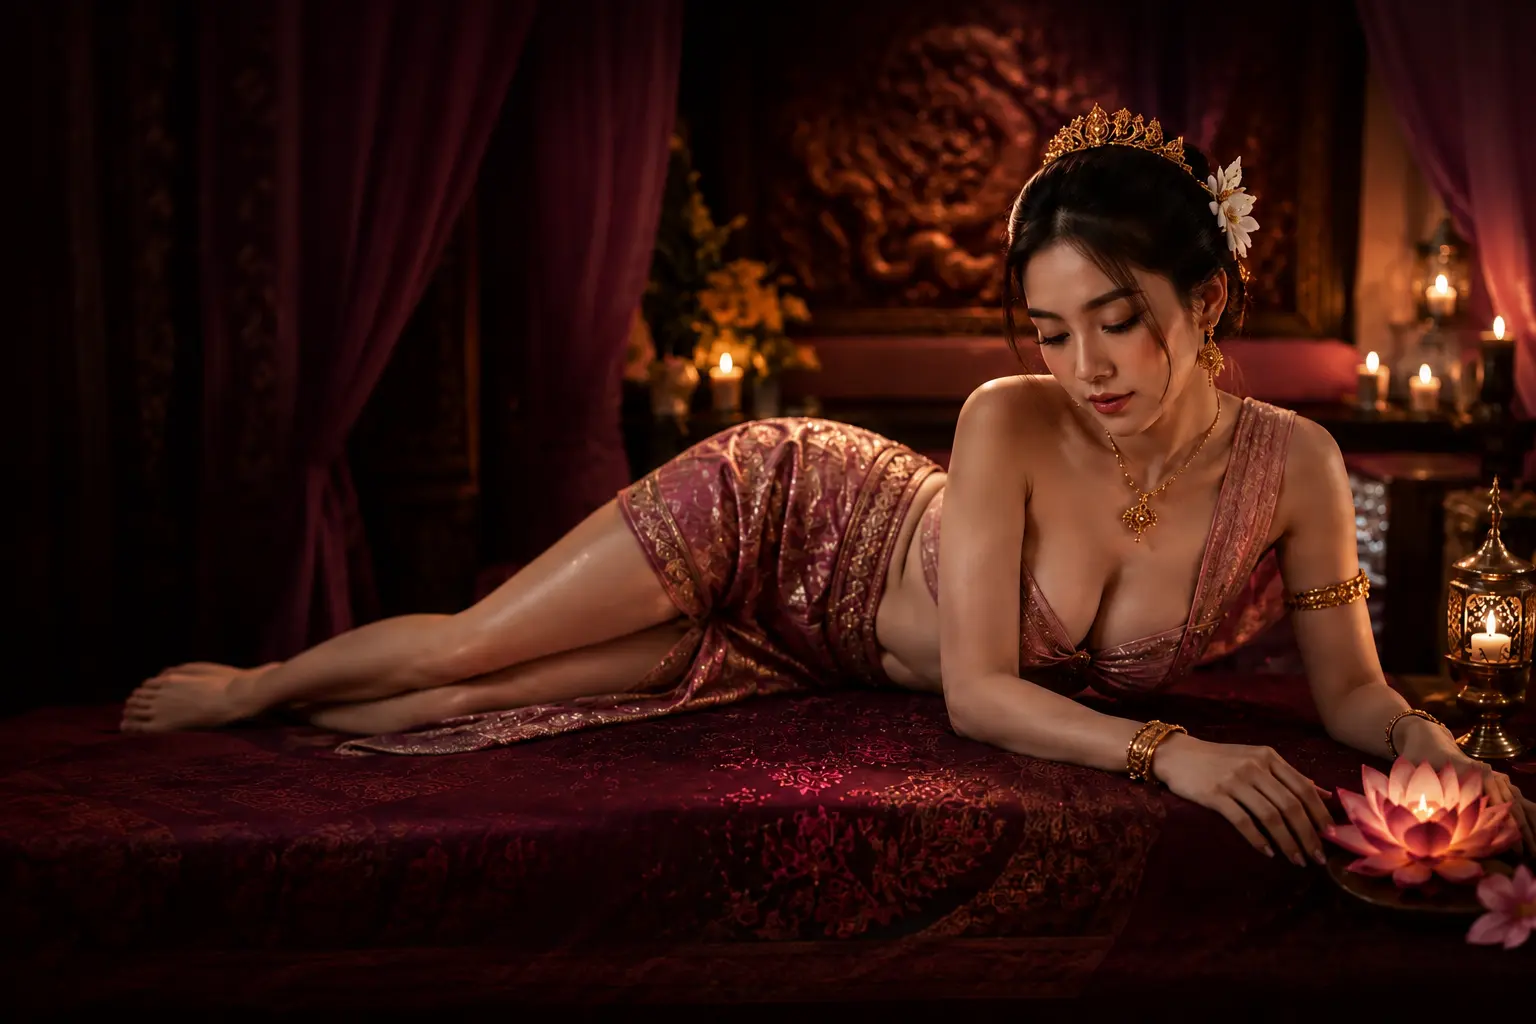
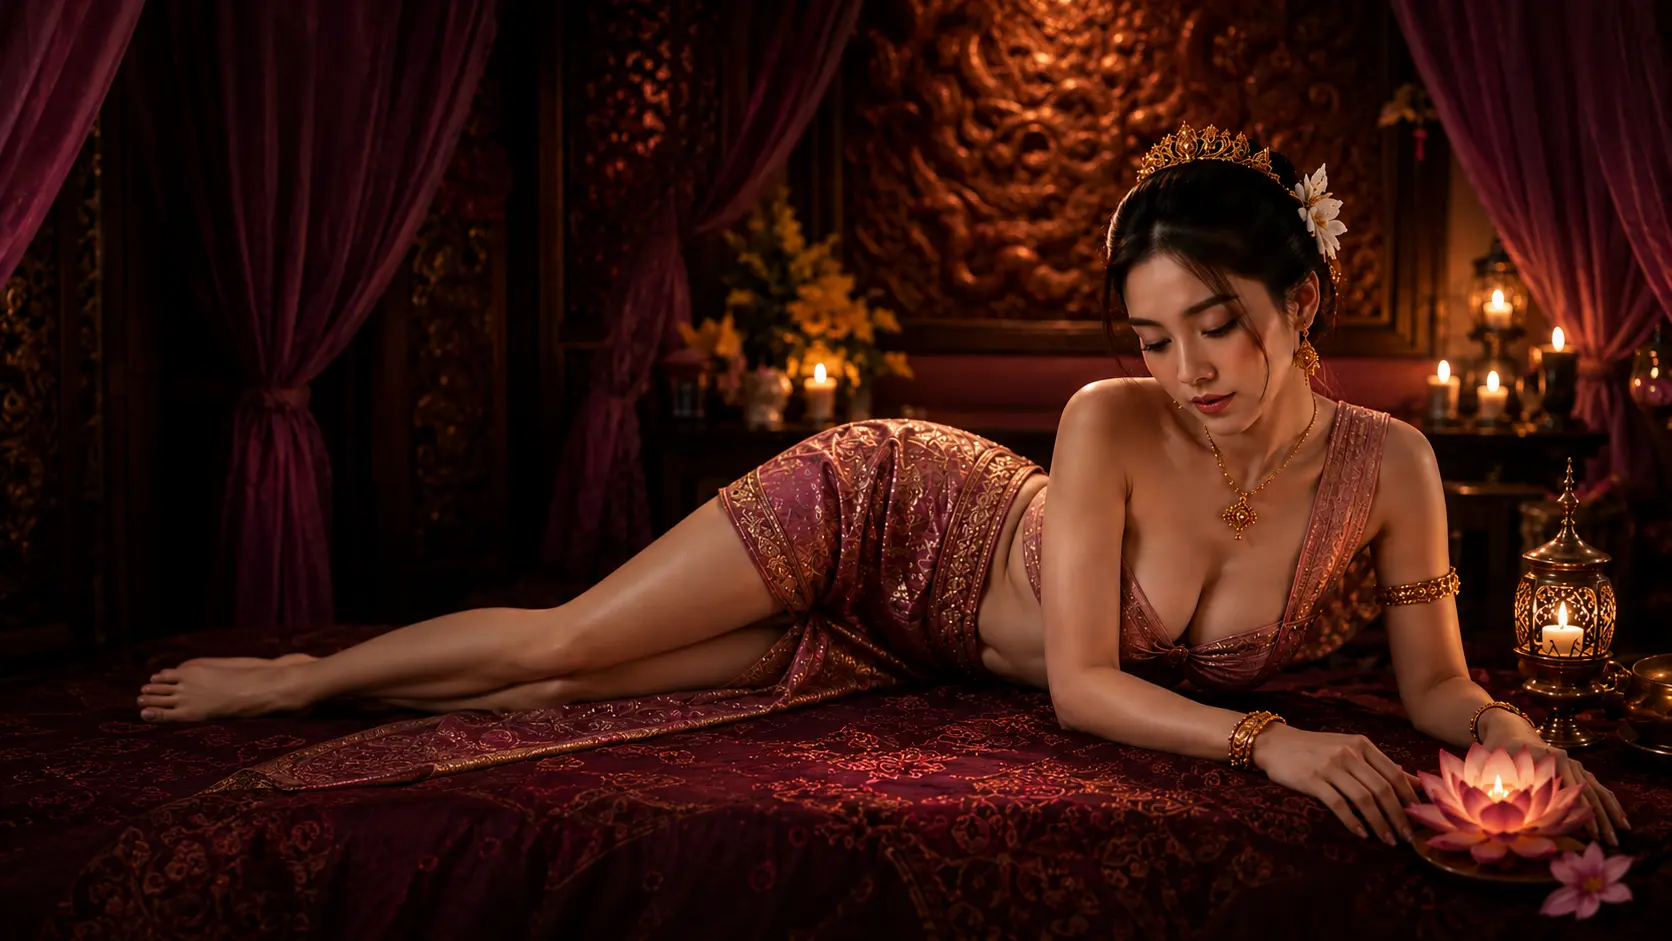
change photo

diff --git a/app/page.tsx b/app/page.tsx
@@ -1,10 +1,7 @@
 import ContactSection from "@/components/ui/ContactSection";
 import HeroSection from "@/components/ui/HeroSection";
 import Location from "@/components/ui/Location";
-import PopUpModal from "@/components/ui/PopUpModal";
 import ServiceSection from "@/components/ui/ServiceSection";
-import Image from "next/image";
-import { Suspense } from "react";
 
 export default function Page() {
   return (
@@ -13,19 +10,6 @@ export default function Page() {
       <ServiceSection />
       <Location />
       <ContactSection />
-      <Suspense>
-        <PopUpModal>
-          <div className="md:w-[50svh] w-[45svh] relative aspect-[17/25] ">
-            <Image
-              width={560}
-              height={560}
-              src={"/menu.webp"}
-              alt=""
-              className="absolute inset-0 object-cover"
-            />
-          </div>
-        </PopUpModal>
-      </Suspense>
     </main>
   );
 }

diff --git a/components/ui/ContactSection.tsx b/components/ui/ContactSection.tsx
@@ -10,7 +10,7 @@ import Map from "./Map";
 export default function ContactSection() {
   return (
     <section
-      className="flex flex-col h-svh items-center   justify-center md:gap-[2%] gap-[3%] backdrop-blur-sm "
+      className="flex flex-col h-svh items-center justify-center md:gap-[2%] gap-[3%] backdrop-blur-sm "
       id="contact-us"
     >
       <motion.header
@@ -31,7 +31,7 @@ export default function ContactSection() {
           </div>
         </div>
       </motion.header>
-      <span className="relative w-[50svh] aspect-[1.033/1] h-auto ">
+      <span className="relative w-[50svh] aspect-[1.033/1] h-auto mb-10">
         <Map />
         {/* <span className="linear-gradient" /> */}
       </span>

diff --git a/components/Bar/NavBar.tsx b/components/Bar/NavBar.tsx
@@ -102,15 +102,14 @@ export default function NavBar() {
           ))}
         </div>
       )}
-      {!showTabs && (
-        <Link
-          href={Contacts[1].href}
-          className="px-6 py-1 text border-2 border-primary md:text-primary rounded-full font-bold md:bg-transparent bg-primary text-foreground"
-          target="_blank"
-        >
-          Book Now
-        </Link>
-      )}
+
+      <Link
+        href={Contacts[1].href}
+        className="px-6 py-1 text border-2 border-primary md:text-primary rounded-full font-bold md:bg-transparent bg-primary text-foreground"
+        target="_blank"
+      >
+        Book Now
+      </Link>
     </motion.nav>
   );
 }

diff --git a/components/ui/ServiceSection.tsx b/components/ui/ServiceSection.tsx
@@ -13,7 +13,7 @@ export default function ServiceSection() {
         viewport={{ amount: 0.8 }}
         width={760}
         height={480}
-        src="/menu.jpg"
+        src="/menu.webp"
         alt="M&M Nuru Maasge Menu"
         className="absolute inset-0 w-full h-full md:w-[65svh] md:h-auto m-auto"
       />

diff --git a/components/ui/HeroSection.tsx b/components/ui/HeroSection.tsx
@@ -45,7 +45,7 @@ export default function HeroSection() {
         viewport={{ amount: 0.8 }}
         width={760}
         height={480}
-        src="/model.png"
+        src="/model.webp"
         alt=""
         loading="eager"
         className="absolute w-screen h-svh top-0 object-cover object-right -z-1"

diff --git a/components/button/BookNow.tsx b/components/button/BookNow.tsx
@@ -13,7 +13,7 @@ export default function BookNow() {
           width={1080}
           height={960}
           alt=""
-          src="/lotus.png"
+          src="/lotus.webp"
           className="absolute w-full h-full inset-0 object-cover"
         />
       </div>
